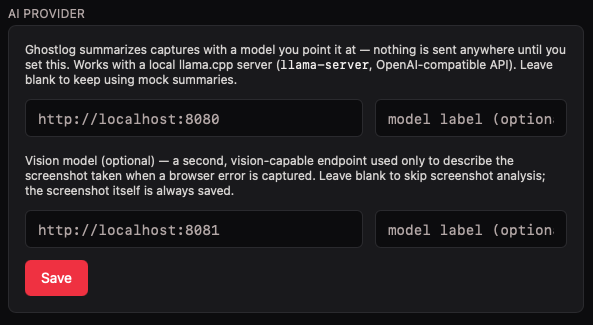
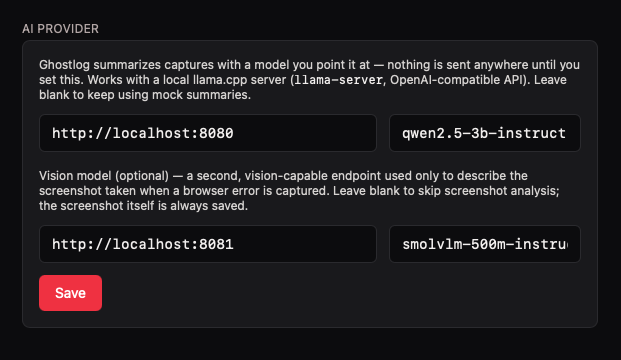
Add real screenshots to the landing page
Replaces the three empty placeholder boxes under "See it in action" with
actual Retina captures of Home, Archive, and Settings > AI provider.

diff --git a/docs/index.html b/docs/index.html
@@ -76,11 +76,6 @@
   .footer-dot{display:inline-block; width:10px; height:10px; border-radius:50%; background:#ef233c; animation:rec-blink 1.1s ease-in-out infinite; vertical-align:middle; margin-right:6px}
   code{background:var(--surface); padding:2px 6px; border-radius:4px; font-size:.9em}
 
-  .shot-placeholder{
-    width:100%; aspect-ratio:16/10; border-radius:10px; border:1px solid var(--border);
-    background:#1c1c1f; margin-bottom:14px;
-  }
-
   .hero{position:relative}
   .why-local-first{position:relative}
   .decor{position:absolute; width:170px; pointer-events:none}
@@ -171,17 +166,17 @@
       <div class="shot-block">
         <h3>Home</h3>
         <p>The tray-owned review window: watch status, one-click manual capture per project, and the most recent capture.</p>
-        <div class="shot-placeholder"></div>
+        <img class="shot" src="screenshots/home.png" alt="Ghostlog Home screen showing watch status and one-click capture">
       </div>
       <div class="shot-block">
         <h3>Archive</h3>
-        <p>Every session, browsable by date and searchable across all entries by title, tag, or summary text.</p>
-        <div class="shot-placeholder"></div>
+        <p>Every entry, browsable by date and searchable across all entries by title, tag, or summary text.</p>
+        <img class="shot" src="screenshots/archive.png" alt="Ghostlog Archive screen showing a searchable, tagged list of entries">
       </div>
       <div class="shot-block">
         <h3>Settings → AI provider</h3>
         <p>Point Ghostlog at a local llama.cpp server. Nothing is sent anywhere until you set this; leave it blank to keep using mock summaries.</p>
-        <div class="shot-placeholder"></div>
+        <img class="shot" src="screenshots/settings-ai-provider.png" alt="Ghostlog Settings screen for configuring a local AI provider">
       </div>
     </div>
   </div>